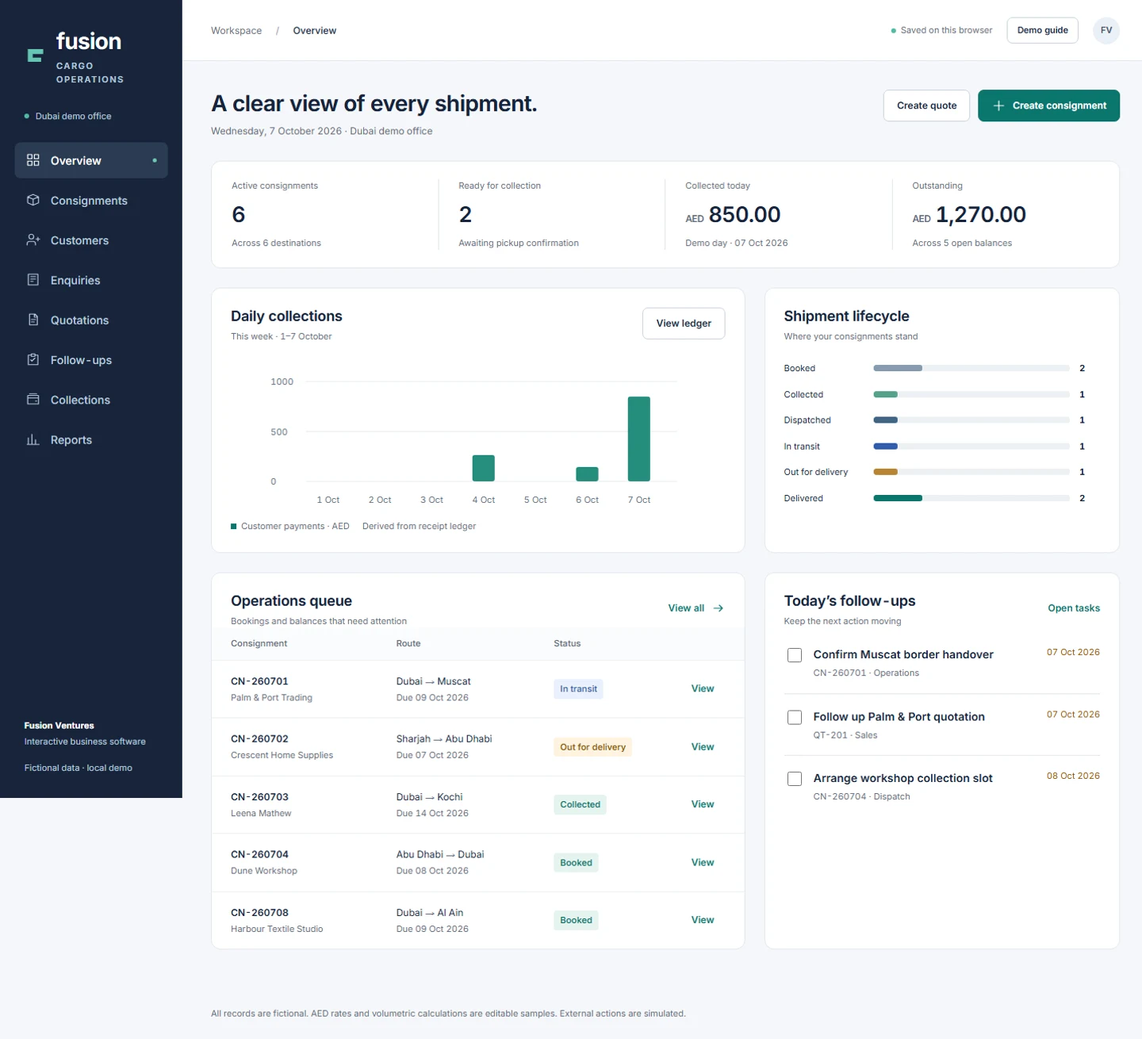
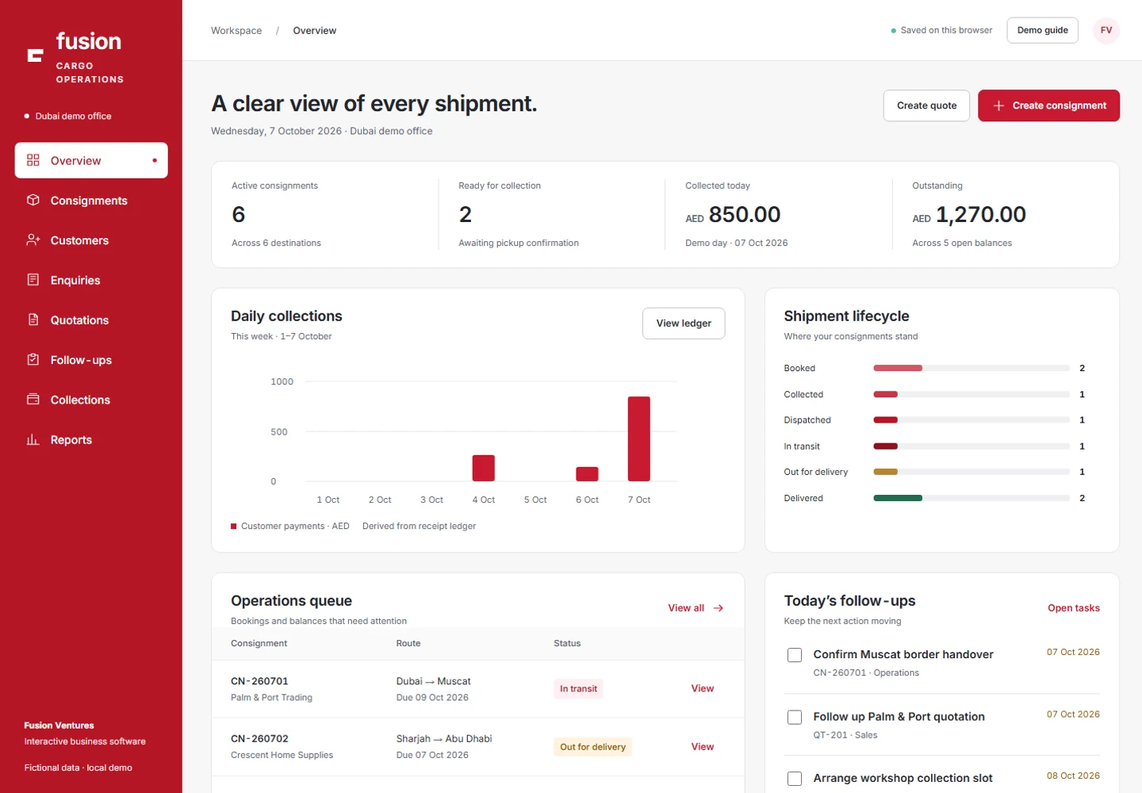
Apply red and white Fusion Cargo palette

diff --git a/public/cargo-demo/styles.css b/public/cargo-demo/styles.css
@@ -1,7 +1,10 @@
 @font-face{font-family:Inter;src:url('./assets/inter-latin.woff2') format('woff2');font-weight:100 900;font-display:swap}
-:root{--ink:#17243b;--muted:#5f6e82;--canvas:#f5f7fa;--line:#e2e7ee;--teal:#0b766e;--teal-light:#e5f3ef;--nav:#17243b;--white:#fff;--amber:#9a590a;--red:#b13737;--blue:#315dab}
-*{box-sizing:border-box}body{margin:0;font-family:Inter,Arial,sans-serif;color:var(--ink);background:var(--canvas);font-size:14px;line-height:1.5;font-variant-numeric:tabular-nums}button,input,select,textarea{font:inherit}button,a{touch-action:manipulation}button{cursor:pointer}a{color:var(--teal);text-underline-offset:3px}button:disabled{opacity:.45;cursor:not-allowed}button:hover:not(:disabled){filter:brightness(.96)}:focus-visible{outline:3px solid #269b91;outline-offset:3px}::selection{background:#c6e8df;color:#17243b}input,textarea{caret-color:var(--teal)}h1,h2,h3,p{margin:0}h1{font-size:28px;letter-spacing:-.025em;line-height:1.25;font-weight:650}h2{font-size:18px;letter-spacing:-.015em;font-weight:650}h3{font-size:14px;font-weight:650}small,.muted{color:var(--muted)}svg{display:block}button svg{width:18px;height:18px}input,select,textarea{width:100%;background:white;color:var(--ink);border:1px solid #bdc8d5;border-radius:7px;padding:10px 12px;min-height:42px}input::placeholder,textarea::placeholder{color:#657488}textarea{min-height:84px;resize:vertical}label{display:block;font-size:12px;font-weight:600}label input,label select,label textarea{margin-top:6px;font-weight:400}input[type=checkbox]{width:18px;min-height:18px}.skip{position:fixed;left:10px;top:-60px;background:white;padding:12px;z-index:30}.skip:focus{top:10px}.sidebar{position:fixed;inset:0 auto 0 0;width:228px;background:var(--nav);color:white;display:flex;flex-direction:column;padding:30px 18px;z-index:10}.brand{color:white;text-decoration:none;display:flex;gap:12px;align-items:center;font-weight:650;font-size:28px;letter-spacing:-.025em;padding:0 12px}.brand svg{width:30px;height:30px;fill:#66c5b2}.brand-sub{display:block;font-size:11px;letter-spacing:.13em;color:#b2c3d7;margin-top:2px}.office{margin:30px 12px 24px;color:#b8c8d9;font-size:11px;display:flex;align-items:center;gap:8px}.dot{display:inline-block;width:6px;height:6px;border-radius:50%;background:#52bba2}.sidebar nav{display:grid;gap:5px}.nav-button{border:0;background:transparent;color:#b9c8da;padding:12px 14px;border-radius:7px;display:flex;align-items:center;gap:13px;text-align:left;font-weight:500}.nav-button svg{width:18px;height:18px}.nav-button.active{color:white;background:#2a3b52}.nav-button.active::after{content:'';margin-left:auto;width:5px;height:5px;background:#6ec7b4;border-radius:50%}.sidebar-foot{margin-top:auto;padding:24px 12px 0;font-size:11px;color:#b8c8da}.sidebar-foot b{color:white}.sidebar-foot p{margin:4px 0 16px}.sidebar-foot span{font-size:11px}.workspace{margin-left:228px;min-width:0}.topbar{height:76px;border-bottom:1px solid var(--line);background:white;padding:0 36px;display:flex;align-items:center;justify-content:space-between;gap:16px}.breadcrumb{color:var(--muted);font-size:12px}.breadcrumb span{margin:0 14px;color:#97a4b4}.breadcrumb b{color:var(--ink);font-weight:500}.top-actions{display:flex;align-items:center;gap:18px}.local-status{font-size:11px;color:var(--muted);display:flex;align-items:center;gap:6px}.avatar{border:0;background:#eaf0f6;color:#384b66;border-radius:50%;width:34px;height:34px;font-size:11px;font-weight:600}.button{display:inline-flex;align-items:center;justify-content:center;gap:8px;padding:10px 16px;background:white;border:1px solid #cbd4df;color:var(--ink);border-radius:7px;font-size:12px;font-weight:600;min-height:40px;text-decoration:none;white-space:nowrap}.button.primary{background:var(--teal);border-color:var(--teal);color:white}.button.danger{color:var(--red)}.button.small{padding:7px 12px;min-height:33px;font-size:11px}.button.link{border:0;background:transparent;color:var(--teal);padding:4px 0;min-height:28px}.icon-button{display:flex;align-items:center;justify-content:center;border:0;background:transparent;padding:8px;color:var(--muted);border-radius:7px}.icon-button svg{width:20px;height:20px}#menuToggle{display:none}main{padding:36px;max-width:1600px;margin:0 auto}.page-head{display:flex;align-items:flex-start;justify-content:space-between;gap:20px;margin-bottom:28px}.page-head p{color:var(--muted);font-size:12px;margin-top:8px}.actions{display:flex;align-items:center;gap:10px;flex-wrap:wrap}.summary-strip{display:grid;grid-template-columns:repeat(4,1fr);background:white;border:1px solid var(--line);border-radius:12px;margin-bottom:24px;padding:22px 0}.summary{padding:0 25px;border-right:1px solid var(--line)}.summary:last-child{border:0}.summary p{font-size:11px;color:var(--muted);margin-bottom:8px}.summary strong{font-size:27px;font-weight:600;letter-spacing:-.025em}.summary small{display:block;font-size:11px;margin-top:7px}.summary strong .unit{font-size:12px;color:var(--muted);margin-right:6px}.dashboard-grid{display:grid;grid-template-columns:1.5fr 1fr;gap:24px;margin-bottom:24px}.panel{background:white;border:1px solid var(--line);border-radius:12px;min-width:0;overflow:hidden}.panel-head{padding:21px 24px 0;display:flex;justify-content:space-between;gap:12px;align-items:center}.panel-head p{font-size:11px;color:var(--muted);margin-top:4px}.panel-body{padding:24px}.chart{width:100%;height:190px}.chart text{font-family:Inter,Arial,sans-serif;font-size:11px;fill:#657488}.chart .bar{fill:#248d7d}.legend{display:flex;gap:16px;font-size:11px;color:var(--muted);margin-top:8px}.legend span{display:flex;align-items:center;gap:6px}.legend i{width:7px;height:7px;background:var(--teal);display:inline-block}.stage-row{display:grid;grid-template-columns:100px 1fr 26px;align-items:center;gap:12px;margin-bottom:16px;font-size:11px}.stage-track{height:8px;background:#edf1f5;border-radius:3px;overflow:hidden}.stage-track div{height:100%;background:#416584;border-radius:3px}.stage-row:last-child{margin-bottom:0}.toolbar{padding:18px 24px;display:flex;align-items:center;gap:12px;border-bottom:1px solid var(--line);flex-wrap:wrap}.search{position:relative;flex:1;min-width:180px;max-width:360px}.search svg{position:absolute;width:17px;height:17px;left:12px;top:12px;color:#78879a}.search input{padding-left:38px;background:#f9fafc;border-color:var(--line);font-size:12px}.toolbar select{width:auto;font-size:12px;min-width:145px}.table-wrap{overflow-x:auto}table{width:100%;border-collapse:collapse;font-size:12px}th{text-align:left;font-size:11px;color:var(--muted);font-weight:550;background:#fafbfc;padding:12px 24px;white-space:nowrap}td{padding:17px 24px;border-top:1px solid #edf0f4;vertical-align:middle}td strong{font-weight:550}td small{display:block;font-size:11px;margin-top:3px}tbody tr:hover{background:#fafcfb}.record-link{font:inherit;color:var(--ink);font-weight:600;background:transparent;border:0;padding:0;text-align:left}.record-link:hover{text-decoration:underline;text-underline-offset:3px}.badge{display:inline-flex;align-items:center;gap:5px;border-radius:4px;padding:4px 8px;font-size:11px;font-weight:550;white-space:nowrap;background:#edf2f7;color:#47617d}.badge.green{background:#e8f4ee;color:#226c4d}.badge.teal{background:#e5f3ef;color:#0b7168}.badge.amber{background:#fff3df;color:#885409}.badge.red{background:#fdeced;color:#a62e36}.badge.blue{background:#eaf0fd;color:#365fa5}.row-actions{display:flex;gap:10px}.right{text-align:right}.empty{text-align:center;padding:45px;color:var(--muted)}.empty p{margin-bottom:15px}.task-list{padding:6px 24px 18px}.task{display:flex;gap:12px;align-items:flex-start;border-bottom:1px solid var(--line);padding:17px 0}.task:last-child{border:0}.task input{margin-top:3px}.task b{font-size:12px;font-weight:550}.task small{display:block;font-size:11px;margin-top:5px}.task time{margin-left:auto;font-size:11px;color:var(--amber);white-space:nowrap}.note{padding:12px 16px;background:#edf4f8;color:#435d74;border-radius:7px;font-size:11px;line-height:1.65;margin-bottom:20px}.note.amber{background:#fff5e4;color:#805516}.detail-grid{display:grid;grid-template-columns:1.6fr 1fr;gap:24px}.detail-section{margin-bottom:24px}.detail-section h3{margin-bottom:14px}.key-grid{display:grid;grid-template-columns:1fr 1fr;gap:16px 24px}.key-grid dt{font-size:11px;color:var(--muted);margin-bottom:4px}.key-grid dd{margin:0;font-size:13px;overflow-wrap:anywhere}.lifecycle{display:flex;align-items:center;margin:8px 0 26px;gap:0}.lifecycle div{flex:1;text-align:center;font-size:11px;color:var(--muted);position:relative}.lifecycle div::before{content:'';display:block;margin:0 auto 8px;width:14px;height:14px;border:3px solid #dce4ed;background:white;border-radius:50%;position:relative;z-index:1}.lifecycle div::after{content:'';position:absolute;top:6px;left:50%;width:100%;height:2px;background:#dce4ed}.lifecycle div:last-child::after{display:none}.lifecycle .done::before{background:var(--teal);border-color:var(--teal)}.lifecycle .done::after{background:var(--teal)}.timeline{display:grid;gap:18px}.timeline-item{padding-left:20px;position:relative;font-size:12px}.timeline-item:before{content:'';position:absolute;left:0;top:5px;width:6px;height:6px;border-radius:50%;background:#748eab}.timeline-item small{display:block;font-size:11px;margin-top:3px}.balance{padding:22px 24px;background:#edf6f2;color:#245d4c;border-bottom:1px solid var(--line)}.balance p{font-size:11px}.balance strong{display:block;font-size:28px;margin-top:6px;font-weight:600}.charge-row{display:flex;justify-content:space-between;padding:9px 0;font-size:12px;border-bottom:1px solid #edf0f4}.charge-row.total{font-weight:650;border-bottom:0;padding-top:15px}.form-page{max-width:1040px}.form-section{padding:24px;background:white;border:1px solid var(--line);border-radius:12px;margin-bottom:20px}.form-section h2{margin-bottom:5px}.form-section>p{color:var(--muted);font-size:11px;margin-bottom:22px}.form-grid{display:grid;grid-template-columns:repeat(3,1fr);gap:18px}.form-grid.two{grid-template-columns:1fr 1fr}.span2{grid-column:span 2}.span3{grid-column:span 3}.form-footer{display:flex;justify-content:space-between;align-items:center;gap:12px;padding:10px 0 24px}.calculation{padding:18px;background:#eff6f3;display:flex;gap:26px;flex-wrap:wrap;border-radius:7px;margin-top:20px}.calculation small{display:block;font-size:11px}.calculation strong{font-size:18px;display:block;margin-top:3px}.error{color:var(--red);font-size:12px;margin:12px 0}.report-grid{display:grid;grid-template-columns:1fr 1fr;gap:24px}.report-metric{padding:18px 0;border-bottom:1px solid var(--line);display:flex;justify-content:space-between;font-size:12px}.report-metric strong{font-size:16px}.filter-count{font-size:11px;color:var(--muted);margin-left:auto}.dialog-head{display:flex;align-items:flex-start;justify-content:space-between;padding:24px 28px 18px;border-bottom:1px solid var(--line)}.dialog-head p{font-size:11px;color:var(--muted);margin-top:6px}dialog{border:0;border-radius:12px;padding:0;color:var(--ink);width:min(720px,calc(100% - 32px));max-height:90vh;box-shadow:0 20px 70px #0c1d3440}dialog::backdrop{background:#17243b80}#dialogBody{padding:24px 28px}dialog.document-dialog{width:min(1020px,calc(100% - 24px))}#toast{position:fixed;bottom:24px;left:calc(50% + 114px);transform:translateX(-50%);background:var(--ink);color:white;padding:12px 20px;border-radius:7px;font-size:12px;box-shadow:0 8px 25px #17243b26;z-index:30;max-width:90%;display:none}#toast.show{display:block}.document-actions{display:flex;justify-content:space-between;gap:12px;flex-wrap:wrap;margin-bottom:18px}.document-scroll{overflow:auto}.document{width:850px;min-height:570px;border:1px solid #a34141;background:white;padding:22px;color:#843b3b;font-family:Arial,sans-serif;font-size:11px}.document h2{font-family:Inter,Arial,sans-serif;color:#843b3b;font-size:21px}.document-top{display:flex;justify-content:space-between;margin-bottom:15px}.document-top small{color:#843b3b}.document-grid{display:grid;grid-template-columns:1fr 1fr 1fr;border-top:1px solid #b65a5a;border-left:1px solid #b65a5a}.document-box{padding:10px;border-right:1px solid #b65a5a;border-bottom:1px solid #b65a5a;min-height:64px}.document-box h3{font-size:11px;margin-bottom:7px}.document-box p{color:#17243b;line-height:1.7;font-size:11px;white-space:pre-line}.document-box.wide{grid-column:span 2}.document-box.full{grid-column:span 3}.document-charge{display:flex;justify-content:space-between;margin:5px 0;color:#17243b}.document-foot{font-size:9px;margin-top:12px;color:#843b3b}.signature-line{display:flex;gap:18px;margin-top:12px;font-size:11px;color:#17243b}footer{padding:12px 36px 24px;font-size:11px;color:var(--muted)}::-webkit-scrollbar{width:8px;height:8px}::-webkit-scrollbar-thumb{background:#bac7d3;border-radius:5px}::-webkit-scrollbar-track{background:#eef2f6}
+:root{--ink:#24262d;--muted:#60646e;--canvas:#f7f7f8;--line:#e5e5e8;--accent:#c8192f;--accent-light:#fff0f2;--nav:#b51626;--white:#fff;--amber:#9a590a;--red:#b13737;--blue:#a6192c}
+*{box-sizing:border-box}body{margin:0;font-family:Inter,Arial,sans-serif;color:var(--ink);background:var(--canvas);font-size:14px;line-height:1.5;font-variant-numeric:tabular-nums}button,input,select,textarea{font:inherit}button,a{touch-action:manipulation}button{cursor:pointer}a{color:var(--accent);text-underline-offset:3px}button:disabled{opacity:.45;cursor:not-allowed}button:hover:not(:disabled){filter:brightness(.96)}:focus-visible{outline:3px solid #c8192f;outline-offset:3px}::selection{background:#ffdbe1;color:#24262d}input,textarea{caret-color:var(--accent)}h1,h2,h3,p{margin:0}h1{font-size:28px;letter-spacing:-.025em;line-height:1.25;font-weight:650}h2{font-size:18px;letter-spacing:-.015em;font-weight:650}h3{font-size:14px;font-weight:650}small,.muted{color:var(--muted)}svg{display:block}button svg{width:18px;height:18px}input,select,textarea{width:100%;background:white;color:var(--ink);border:1px solid #bfc1c7;border-radius:7px;padding:10px 12px;min-height:42px}input::placeholder,textarea::placeholder{color:#656972}textarea{min-height:84px;resize:vertical}label{display:block;font-size:12px;font-weight:600}label input,label select,label textarea{margin-top:6px;font-weight:400}input[type=checkbox]{width:18px;min-height:18px}.skip{position:fixed;left:10px;top:-60px;background:white;padding:12px;z-index:30}.skip:focus{top:10px}.sidebar{position:fixed;inset:0 auto 0 0;width:228px;background:var(--nav);color:white;display:flex;flex-direction:column;padding:30px 18px;z-index:10}.brand{color:white;text-decoration:none;display:flex;gap:12px;align-items:center;font-weight:650;font-size:28px;letter-spacing:-.025em;padding:0 12px}.brand svg{width:30px;height:30px;fill:#ffffff}.brand-sub{display:block;font-size:11px;letter-spacing:.13em;color:#ffe4e8;margin-top:2px}.office{margin:30px 12px 24px;color:#ffe4e8;font-size:11px;display:flex;align-items:center;gap:8px}.dot{display:inline-block;width:6px;height:6px;border-radius:50%;background:#52bba2}.sidebar nav{display:grid;gap:5px}.nav-button{border:0;background:transparent;color:#ffffff;padding:12px 14px;border-radius:7px;display:flex;align-items:center;gap:13px;text-align:left;font-weight:500}.nav-button svg{width:18px;height:18px}.nav-button.active{color:#b51626;background:#ffffff}.nav-button.active::after{content:'';margin-left:auto;width:5px;height:5px;background:#c8192f;border-radius:50%}.sidebar-foot{margin-top:auto;padding:24px 12px 0;font-size:11px;color:#ffe4e8}.sidebar-foot b{color:white}.sidebar-foot p{margin:4px 0 16px}.sidebar-foot span{font-size:11px}.workspace{margin-left:228px;min-width:0}.topbar{height:76px;border-bottom:1px solid var(--line);background:white;padding:0 36px;display:flex;align-items:center;justify-content:space-between;gap:16px}.breadcrumb{color:var(--muted);font-size:12px}.breadcrumb span{margin:0 14px;color:#999da5}.breadcrumb b{color:var(--ink);font-weight:500}.top-actions{display:flex;align-items:center;gap:18px}.local-status{font-size:11px;color:var(--muted);display:flex;align-items:center;gap:6px}.avatar{border:0;background:#fff0f2;color:#a6192c;border-radius:50%;width:34px;height:34px;font-size:11px;font-weight:600}.button{display:inline-flex;align-items:center;justify-content:center;gap:8px;padding:10px 16px;background:white;border:1px solid #c7c9cf;color:var(--ink);border-radius:7px;font-size:12px;font-weight:600;min-height:40px;text-decoration:none;white-space:nowrap}.button.primary{background:var(--accent);border-color:var(--accent);color:white}.button.danger{color:var(--red)}.button.small{padding:7px 12px;min-height:33px;font-size:11px}.button.link{border:0;background:transparent;color:var(--accent);padding:4px 0;min-height:28px}.icon-button{display:flex;align-items:center;justify-content:center;border:0;background:transparent;padding:8px;color:var(--muted);border-radius:7px}.icon-button svg{width:20px;height:20px}#menuToggle{display:none}main{padding:36px;max-width:1600px;margin:0 auto}.page-head{display:flex;align-items:flex-start;justify-content:space-between;gap:20px;margin-bottom:28px}.page-head p{color:var(--muted);font-size:12px;margin-top:8px}.actions{display:flex;align-items:center;gap:10px;flex-wrap:wrap}.summary-strip{display:grid;grid-template-columns:repeat(4,1fr);background:white;border:1px solid var(--line);border-radius:12px;margin-bottom:24px;padding:22px 0}.summary{padding:0 25px;border-right:1px solid var(--line)}.summary:last-child{border:0}.summary p{font-size:11px;color:var(--muted);margin-bottom:8px}.summary strong{font-size:27px;font-weight:600;letter-spacing:-.025em}.summary small{display:block;font-size:11px;margin-top:7px}.summary strong .unit{font-size:12px;color:var(--muted);margin-right:6px}.dashboard-grid{display:grid;grid-template-columns:1.5fr 1fr;gap:24px;margin-bottom:24px}.panel{background:white;border:1px solid var(--line);border-radius:12px;min-width:0;overflow:hidden}.panel-head{padding:21px 24px 0;display:flex;justify-content:space-between;gap:12px;align-items:center}.panel-head p{font-size:11px;color:var(--muted);margin-top:4px}.panel-body{padding:24px}.chart{width:100%;height:190px}.chart text{font-family:Inter,Arial,sans-serif;font-size:11px;fill:#656972}.chart .bar{fill:#c8192f}.legend{display:flex;gap:16px;font-size:11px;color:var(--muted);margin-top:8px}.legend span{display:flex;align-items:center;gap:6px}.legend i{width:7px;height:7px;background:var(--accent);display:inline-block}.stage-row{display:grid;grid-template-columns:100px 1fr 26px;align-items:center;gap:12px;margin-bottom:16px;font-size:11px}.stage-track{height:8px;background:#f0f0f2;border-radius:3px;overflow:hidden}.stage-track div{height:100%;background:#c8192f;border-radius:3px}.stage-row:last-child{margin-bottom:0}.toolbar{padding:18px 24px;display:flex;align-items:center;gap:12px;border-bottom:1px solid var(--line);flex-wrap:wrap}.search{position:relative;flex:1;min-width:180px;max-width:360px}.search svg{position:absolute;width:17px;height:17px;left:12px;top:12px;color:#777b84}.search input{padding-left:38px;background:#fafafa;border-color:var(--line);font-size:12px}.toolbar select{width:auto;font-size:12px;min-width:145px}.table-wrap{overflow-x:auto}table{width:100%;border-collapse:collapse;font-size:12px}th{text-align:left;font-size:11px;color:var(--muted);font-weight:550;background:#fafafa;padding:12px 24px;white-space:nowrap}td{padding:17px 24px;border-top:1px solid #eeeeef;vertical-align:middle}td strong{font-weight:550}td small{display:block;font-size:11px;margin-top:3px}tbody tr:hover{background:#fffafb}.record-link{font:inherit;color:var(--ink);font-weight:600;background:transparent;border:0;padding:0;text-align:left}.record-link:hover{text-decoration:underline;text-underline-offset:3px}.badge{display:inline-flex;align-items:center;gap:5px;border-radius:4px;padding:4px 8px;font-size:11px;font-weight:550;white-space:nowrap;background:#f0f1f3;color:#505766}.badge.green{background:#e8f4ee;color:#226c4d}.badge.teal{background:#fff0f2;color:#a6192c}.badge.amber{background:#fff3df;color:#885409}.badge.red{background:#fdeced;color:#a62e36}.badge.blue{background:#fff0f2;color:#a6192c}.row-actions{display:flex;gap:10px}.right{text-align:right}.empty{text-align:center;padding:45px;color:var(--muted)}.empty p{margin-bottom:15px}.task-list{padding:6px 24px 18px}.task{display:flex;gap:12px;align-items:flex-start;border-bottom:1px solid var(--line);padding:17px 0}.task:last-child{border:0}.task input{margin-top:3px}.task b{font-size:12px;font-weight:550}.task small{display:block;font-size:11px;margin-top:5px}.task time{margin-left:auto;font-size:11px;color:var(--amber);white-space:nowrap}.note{padding:12px 16px;background:#f2f2f4;color:#555963;border-radius:7px;font-size:11px;line-height:1.65;margin-bottom:20px}.note.amber{background:#fff5e4;color:#805516}.detail-grid{display:grid;grid-template-columns:1.6fr 1fr;gap:24px}.detail-section{margin-bottom:24px}.detail-section h3{margin-bottom:14px}.key-grid{display:grid;grid-template-columns:1fr 1fr;gap:16px 24px}.key-grid dt{font-size:11px;color:var(--muted);margin-bottom:4px}.key-grid dd{margin:0;font-size:13px;overflow-wrap:anywhere}.lifecycle{display:flex;align-items:center;margin:8px 0 26px;gap:0}.lifecycle div{flex:1;text-align:center;font-size:11px;color:var(--muted);position:relative}.lifecycle div::before{content:'';display:block;margin:0 auto 8px;width:14px;height:14px;border:3px solid #dedfe3;background:white;border-radius:50%;position:relative;z-index:1}.lifecycle div::after{content:'';position:absolute;top:6px;left:50%;width:100%;height:2px;background:#dedfe3}.lifecycle div:last-child::after{display:none}.lifecycle .done::before{background:var(--accent);border-color:var(--accent)}.lifecycle .done::after{background:var(--accent)}.timeline{display:grid;gap:18px}.timeline-item{padding-left:20px;position:relative;font-size:12px}.timeline-item:before{content:'';position:absolute;left:0;top:5px;width:6px;height:6px;border-radius:50%;background:#a6192c}.timeline-item small{display:block;font-size:11px;margin-top:3px}.balance{padding:22px 24px;background:#fff0f2;color:#a6192c;border-bottom:1px solid var(--line)}.balance p{font-size:11px}.balance strong{display:block;font-size:28px;margin-top:6px;font-weight:600}.charge-row{display:flex;justify-content:space-between;padding:9px 0;font-size:12px;border-bottom:1px solid #eeeeef}.charge-row.total{font-weight:650;border-bottom:0;padding-top:15px}.form-page{max-width:1040px}.form-section{padding:24px;background:white;border:1px solid var(--line);border-radius:12px;margin-bottom:20px}.form-section h2{margin-bottom:5px}.form-section>p{color:var(--muted);font-size:11px;margin-bottom:22px}.form-grid{display:grid;grid-template-columns:repeat(3,1fr);gap:18px}.form-grid.two{grid-template-columns:1fr 1fr}.span2{grid-column:span 2}.span3{grid-column:span 3}.form-footer{display:flex;justify-content:space-between;align-items:center;gap:12px;padding:10px 0 24px}.calculation{padding:18px;background:#fff4f5;display:flex;gap:26px;flex-wrap:wrap;border-radius:7px;margin-top:20px}.calculation small{display:block;font-size:11px}.calculation strong{font-size:18px;display:block;margin-top:3px}.error{color:var(--red);font-size:12px;margin:12px 0}.report-grid{display:grid;grid-template-columns:1fr 1fr;gap:24px}.report-metric{padding:18px 0;border-bottom:1px solid var(--line);display:flex;justify-content:space-between;font-size:12px}.report-metric strong{font-size:16px}.filter-count{font-size:11px;color:var(--muted);margin-left:auto}.dialog-head{display:flex;align-items:flex-start;justify-content:space-between;padding:24px 28px 18px;border-bottom:1px solid var(--line)}.dialog-head p{font-size:11px;color:var(--muted);margin-top:6px}dialog{border:0;border-radius:12px;padding:0;color:var(--ink);width:min(720px,calc(100% - 32px));max-height:90vh;box-shadow:0 20px 70px #24262d40}dialog::backdrop{background:#24262d80}#dialogBody{padding:24px 28px}dialog.document-dialog{width:min(1020px,calc(100% - 24px))}#toast{position:fixed;bottom:24px;left:calc(50% + 114px);transform:translateX(-50%);background:var(--ink);color:white;padding:12px 20px;border-radius:7px;font-size:12px;box-shadow:0 8px 25px #24262d26;z-index:30;max-width:90%;display:none}#toast.show{display:block}.document-actions{display:flex;justify-content:space-between;gap:12px;flex-wrap:wrap;margin-bottom:18px}.document-scroll{overflow:auto}.document{width:850px;min-height:570px;border:1px solid #c8192f;background:white;padding:22px;color:#a6192c;font-family:Arial,sans-serif;font-size:11px}.document h2{font-family:Inter,Arial,sans-serif;color:#a6192c;font-size:21px}.document-top{display:flex;justify-content:space-between;margin-bottom:15px}.document-top small{color:#a6192c}.document-grid{display:grid;grid-template-columns:1fr 1fr 1fr;border-top:1px solid #d45767;border-left:1px solid #d45767}.document-box{padding:10px;border-right:1px solid #d45767;border-bottom:1px solid #d45767;min-height:64px}.document-box h3{font-size:11px;margin-bottom:7px}.document-box p{color:#24262d;line-height:1.7;font-size:11px;white-space:pre-line}.document-box.wide{grid-column:span 2}.document-box.full{grid-column:span 3}.document-charge{display:flex;justify-content:space-between;margin:5px 0;color:#24262d}.document-foot{font-size:9px;margin-top:12px;color:#a6192c}.signature-line{display:flex;gap:18px;margin-top:12px;font-size:11px;color:#24262d}footer{padding:12px 36px 24px;font-size:11px;color:var(--muted)}::-webkit-scrollbar{width:8px;height:8px}::-webkit-scrollbar-thumb{background:#c0c2c8;border-radius:5px}::-webkit-scrollbar-track{background:#f0f1f3}
 @media(min-width:1600px){main{padding-top:42px}}@media(max-width:1100px){main{padding:26px}.topbar{padding:0 26px}.sidebar{width:200px;padding-inline:12px}.workspace{margin-left:200px}.dashboard-grid{grid-template-columns:1.2fr 1fr}.summary{padding:0 18px}td,th{padding-inline:16px}.detail-grid{grid-template-columns:1.4fr 1fr}}@media(max-width:800px){.sidebar{transform:translateX(-100%);width:228px;transition:transform .18s ease}.sidebar.open{transform:translateX(0)}.workspace{margin-left:0}.topbar{height:64px;padding:0 18px}.breadcrumb{margin-right:auto}.top-actions{gap:10px}.local-status{display:none}#menuToggle{display:flex}.dashboard-grid,.detail-grid,.report-grid{grid-template-columns:1fr}.page-head{flex-direction:column;gap:16px}.page-head .actions{width:100%}.summary-strip{grid-template-columns:1fr 1fr;gap:22px 0;padding:20px 0}.summary:nth-child(2){border:0}.summary strong{font-size:24px}main{padding:24px 18px}.form-grid{grid-template-columns:1fr 1fr}.span3{grid-column:span 2}.form-grid.two{grid-template-columns:1fr 1fr}.panel-head,.panel-body,.toolbar{padding-inline:18px}.form-section{padding:20px}.lifecycle{overflow:hidden}.lifecycle div{font-size:11px}#toast{left:50%}footer{padding-inline:18px}.document-dialog #dialogBody{padding:18px}.filter-count{margin-left:0}.sidebar-foot{padding-bottom:20px}}@media(max-width:480px){h1{font-size:25px}.topbar .button{padding-inline:9px}.avatar{display:none}.breadcrumb span{margin-inline:7px}.form-grid,.form-grid.two{grid-template-columns:1fr}.span2,.span3{grid-column:auto}.key-grid{gap:16px}.toolbar select{flex:1;min-width:130px}.search{max-width:none;flex-basis:100%}.actions .button{flex:1}.summary{padding:0 18px}.form-footer{align-items:stretch}.form-footer .button{flex:1}.dialog-head{padding:20px}#dialogBody{padding:20px}.form-footer small{display:none}.chart{height:170px}.chart text{font-size:19px}.dashboard-grid table th:nth-child(2),.dashboard-grid table td:nth-child(2){display:none}.dashboard-grid td,.dashboard-grid th{padding-inline:16px}.dashboard-grid td .record-link{white-space:nowrap}}@media(prefers-reduced-motion:reduce){*{transition:none!important}}@media print{body>*{display:none!important}body>dialog{display:block!important;position:static;max-height:none;width:100%;box-shadow:none}dialog .dialog-head,.document-actions{display:none!important}#dialogBody{padding:0}.document{width:100%;border:0}.document-scroll{overflow:visible}}
 
 
 .task>div{min-width:0;flex:1}.task .record-link{white-space:normal;overflow-wrap:anywhere}.task time{flex-shrink:0}
+
+
+.sidebar :focus-visible{outline-color:white}.office .dot{background:white}input[type=checkbox]{accent-color:var(--accent)}

diff --git a/public/cargo-demo/app.js b/public/cargo-demo/app.js
@@ -65,8 +65,8 @@ function overview(){
  const active=state.consignments.filter(c=>c.status!=='Delivered'),day=state.payments.filter(p=>p.date===TODAY).reduce((n,p)=>n+p.amount,0),due=state.consignments.reduce((n,c)=>n+balance(c),0);
  const strip='<div class="summary-strip">'+[['Active consignments',active.length,'Across '+new Set(active.map(c=>c.destination)).size+' destinations'],['Ready for collection',state.consignments.filter(c=>c.status==='Booked').length,'Awaiting pickup confirmation'],['Collected today',moneyTag(day),'Demo day · '+date(TODAY)],['Outstanding',moneyTag(due),'Across '+state.consignments.filter(c=>balance(c)>0).length+' open balances']].map(([label,n,sub])=>'<div class="summary"><p>'+label+'</p><strong>'+n+'</strong><small>'+sub+'</small></div>').join('')+'</div>';
  const dates=['2026-10-01','2026-10-02','2026-10-03','2026-10-04','2026-10-05','2026-10-06',TODAY],values=dates.map(d=>state.payments.filter(p=>p.date===d).reduce((n,p)=>n+p.amount,0)),max=Math.max(1000,...values);
- const chart='<div class="panel-body"><svg class="chart" role="img" aria-label="Daily collections from 1 to 7 October 2026. Total AED '+money(values.reduce((a,b)=>a+b,0))+'" viewBox="0 0 520 190">'+[0,.5,1].map(t=>'<line x1="44" x2="510" y1="'+(150-t*125)+'" y2="'+(150-t*125)+'" stroke="#e7edf3"/><text x="0" y="'+(154-t*125)+'">'+Math.round(max*t)+'</text>').join('')+values.map((v,i)=>'<rect class="bar" x="'+(58+i*65)+'" y="'+(150-v/max*125)+'" width="28" height="'+(v/max*125)+'" rx="3"/><text x="'+(72+i*65)+'" y="177" text-anchor="middle">'+(i+1)+' Oct</text>').join('')+'</svg><div class="legend"><span><i></i>Customer payments · AED</span><span>Derived from receipt ledger</span></div></div>';
- const stageBody='<div class="panel-body">'+stages.map((s,i)=>{const n=state.consignments.filter(c=>c.status===s).length;return '<div class="stage-row"><span>'+s+'</span><div class="stage-track"><div style="width:'+n/Math.max(1,state.consignments.length)*100+'%;background:'+(['#879bad','#56a28e','#416584','#315dab','#b78535','#0b766e'][i])+'"></div></div><b>'+n+'</b></div>'}).join('')+'</div>';
+ const chart='<div class="panel-body"><svg class="chart" role="img" aria-label="Daily collections from 1 to 7 October 2026. Total AED '+money(values.reduce((a,b)=>a+b,0))+'" viewBox="0 0 520 190">'+[0,.5,1].map(t=>'<line x1="44" x2="510" y1="'+(150-t*125)+'" y2="'+(150-t*125)+'" stroke="#e9e9ec"/><text x="0" y="'+(154-t*125)+'">'+Math.round(max*t)+'</text>').join('')+values.map((v,i)=>'<rect class="bar" x="'+(58+i*65)+'" y="'+(150-v/max*125)+'" width="28" height="'+(v/max*125)+'" rx="3"/><text x="'+(72+i*65)+'" y="177" text-anchor="middle">'+(i+1)+' Oct</text>').join('')+'</svg><div class="legend"><span><i></i>Customer payments · AED</span><span>Derived from receipt ledger</span></div></div>';
+ const stageBody='<div class="panel-body">'+stages.map((s,i)=>{const n=state.consignments.filter(c=>c.status===s).length;return '<div class="stage-row"><span>'+s+'</span><div class="stage-track"><div style="width:'+n/Math.max(1,state.consignments.length)*100+'%;background:'+(['#d45767','#ca3448','#b51626','#8f1220','#b78535','#226c4d'][i])+'"></div></div><b>'+n+'</b></div>'}).join('')+'</div>';
  const attention=active.filter(c=>c.status==='Booked'||balance(c)>0).slice(0,5);
  return head('A clear view of every shipment.','Wednesday, 7 October 2026 · Dubai demo office',btn('Create quote','createQuote')+btn(svg('plus')+' Create consignment','createBooking','',true))+strip+'<div class="dashboard-grid">'+panel('Daily collections','This week · 1–7 October',chart,btn('View ledger','navCollections'))+panel('Shipment lifecycle','Where your consignments stand',stageBody)+'</div><div class="dashboard-grid">'+panel('Operations queue','Bookings and balances that need attention',shipmentTable(attention),'<button class="button link" data-nav="consignments">View all '+svg('arrow')+'</button>')+panel('Today’s follow-ups','Keep the next action moving',taskList(state.tasks.filter(t=>!t.done).slice(0,3)),'<button class="button link" data-nav="tasks">Open tasks</button>')+'</div>';
 }
@@ -163,10 +163,10 @@ function registerPreview(){openDialog('Full-sheet shipment register','All bookin
 function vectorPDF(filename,title,sections){
  const clean=s=>String(s??'').normalize('NFKD').replace(/[^\x20-\x7E]/g,' ').replace(/\\/g,'\\\\').replace(/\(/g,'\\(').replace(/\)/g,'\\)');
  let cmds=[],pages=[],y;
- const text=(x,pos,size,s)=>cmds.push('BT /F1 '+size+' Tf '+x+' '+pos+' Td ('+clean(s)+') Tj ET');
- const newPage=()=>{if(cmds.length)pages.push(cmds.join('\n'));cmds=['0.52 0.23 0.23 RG','0.52 0.23 0.23 rg','1 w','36 36 770 520 re S'];text(52,525,20,'FUSION CARGO');text(52,504,9,'Fusion Ventures | Fictional UAE office');text(520,525,14,title);text(520,504,9,filename.replace('.pdf','')+' | DEMONSTRATION');text(730,47,8,'Page '+(pages.length+1));y=480};
+ const text=(x,pos,size,s,color='0.14 0.15 0.18')=>cmds.push(color+' rg BT /F1 '+size+' Tf '+x+' '+pos+' Td ('+clean(s)+') Tj ET');
+ const newPage=()=>{if(cmds.length)pages.push(cmds.join('\n'));cmds=['0.784 0.098 0.184 RG','0.14 0.15 0.18 rg','1 w','36 36 770 520 re S'];text(52,525,20,'FUSION CARGO','0.784 0.098 0.184');text(52,504,9,'Fusion Ventures | Fictional UAE office');text(520,525,14,title,'0.784 0.098 0.184');text(520,504,9,filename.replace('.pdf','')+' | DEMONSTRATION');text(730,47,8,'Page '+(pages.length+1));y=480};
  const chunks=line=>{const words=String(line).replace(/\s+/g,' ').split(' '),result=[];let part='';for(let word of words){while(word.length>112){if(part){result.push(part);part=''}result.push(word.slice(0,112));word=word.slice(112)}if((part+' '+word).length>112){result.push(part);part=word}else part+=(part?' ':'')+word}if(part)result.push(part);return result.length?result:['']};
- newPage();for(const sec of sections){if(y<105)newPage();text(52,y,11,sec.title.toUpperCase());y-=17;for(const line of sec.lines){for(const chunk of chunks(line)){if(y<70){newPage();text(52,y,11,sec.title.toUpperCase()+' (CONTINUED)');y-=17}text(52,y,10,chunk);y-=14}}y-=11;cmds.push('52 '+(y+15)+' m 790 '+(y+15)+' l S')}pages.push(cmds.join('\n'));
+ newPage();for(const sec of sections){if(y<105)newPage();text(52,y,11,sec.title.toUpperCase(),'0.65 0.098 0.173');y-=17;for(const line of sec.lines){for(const chunk of chunks(line)){if(y<70){newPage();text(52,y,11,sec.title.toUpperCase()+' (CONTINUED)','0.65 0.098 0.173');y-=17}text(52,y,10,chunk);y-=14}}y-=11;cmds.push('52 '+(y+15)+' m 790 '+(y+15)+' l S')}pages.push(cmds.join('\n'));
  const objects=['<< /Type /Catalog /Pages 2 0 R >>','<< /Type /Pages /Kids ['+pages.map((_,i)=>(4+i*2)+' 0 R').join(' ')+'] /Count '+pages.length+' >>','<< /Type /Font /Subtype /Type1 /BaseFont /Helvetica >>'];
  pages.forEach((stream,i)=>{objects.push('<< /Type /Page /Parent 2 0 R /MediaBox [0 0 842 595] /Resources << /Font << /F1 3 0 R >> >> /Contents '+(5+i*2)+' 0 R >>');objects.push('<< /Length '+stream.length+' >>\nstream\n'+stream+'\nendstream')});
  let pdf='%PDF-1.4\n',offsets=[0];objects.forEach((o,i)=>{offsets.push(pdf.length);pdf+=(i+1)+' 0 obj\n'+o+'\nendobj\n'});const xref=pdf.length;pdf+='xref\n0 '+(objects.length+1)+'\n0000000000 65535 f \n'+offsets.slice(1).map(n=>String(n).padStart(10,'0')+' 00000 n \n').join('')+'trailer\n<< /Size '+(objects.length+1)+' /Root 1 0 R >>\nstartxref\n'+xref+'\n%%EOF';downloadBlob(filename,pdf,'application/pdf');return pdf

diff --git a/public/cargo-demo/index.html b/public/cargo-demo/index.html
@@ -1,6 +1,6 @@
 <!doctype html>
 <html lang="en">
-<head><meta charset="utf-8"><meta name="viewport" content="width=device-width,initial-scale=1"><meta name="theme-color" content="#17243b"><link rel="icon" type="image/svg+xml" href="./favicon.svg"><meta name="description" content="Fictional browser-local cargo CRM demo by Fusion Ventures for consignments, customers, shipment tracking and daily collections."><title>Fusion Cargo · Logistics CRM Demo</title><link rel="stylesheet" href="./styles.css"><script defer src="./app.js"></script></head>
+<head><meta charset="utf-8"><meta name="viewport" content="width=device-width,initial-scale=1"><meta name="theme-color" content="#b51626"><link rel="icon" type="image/svg+xml" href="./favicon.svg"><meta name="description" content="Fictional browser-local cargo CRM demo by Fusion Ventures for consignments, customers, shipment tracking and daily collections."><title>Fusion Cargo · Logistics CRM Demo</title><link rel="stylesheet" href="./styles.css"><script defer src="./app.js"></script></head>
 <body>
 <a class="skip" href="#main">Skip to workspace</a>
 <aside class="sidebar"><a class="brand" href="./" aria-label="Fusion Cargo home"><svg viewBox="0 0 32 32" aria-hidden="true"><path d="M5 7h22v7H12v5h12v6H5z"/></svg><span>fusion<span class="brand-sub">CARGO OPERATIONS</span></span></a><div class="office"><span class="dot"></span> Dubai demo office</div><nav id="navigation" aria-label="Main navigation"></nav><div class="sidebar-foot"><b>Fusion Ventures</b><p>Interactive business software</p><span>Fictional data · local demo</span></div></aside>
